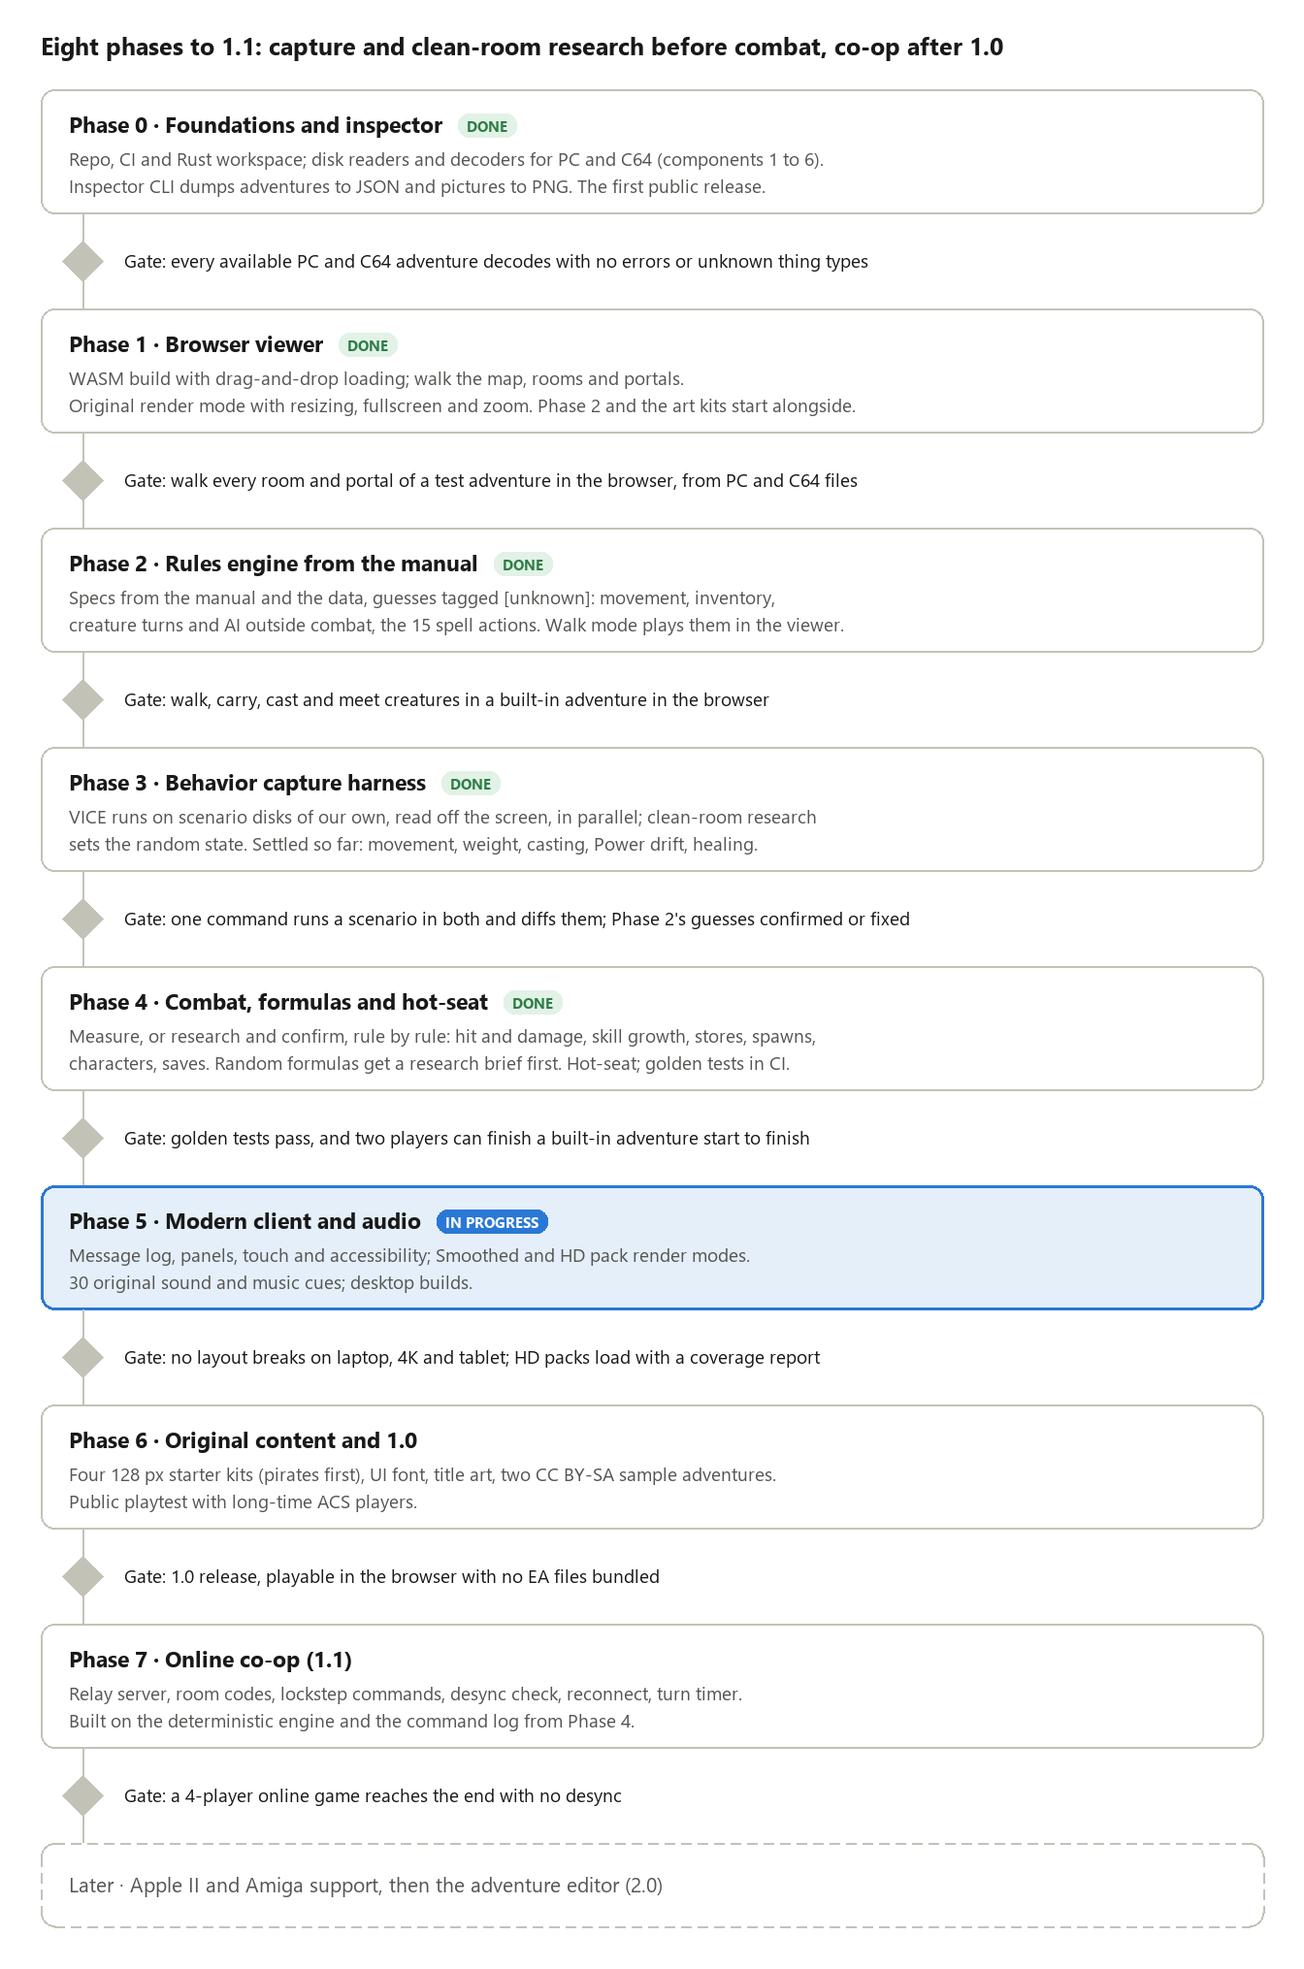
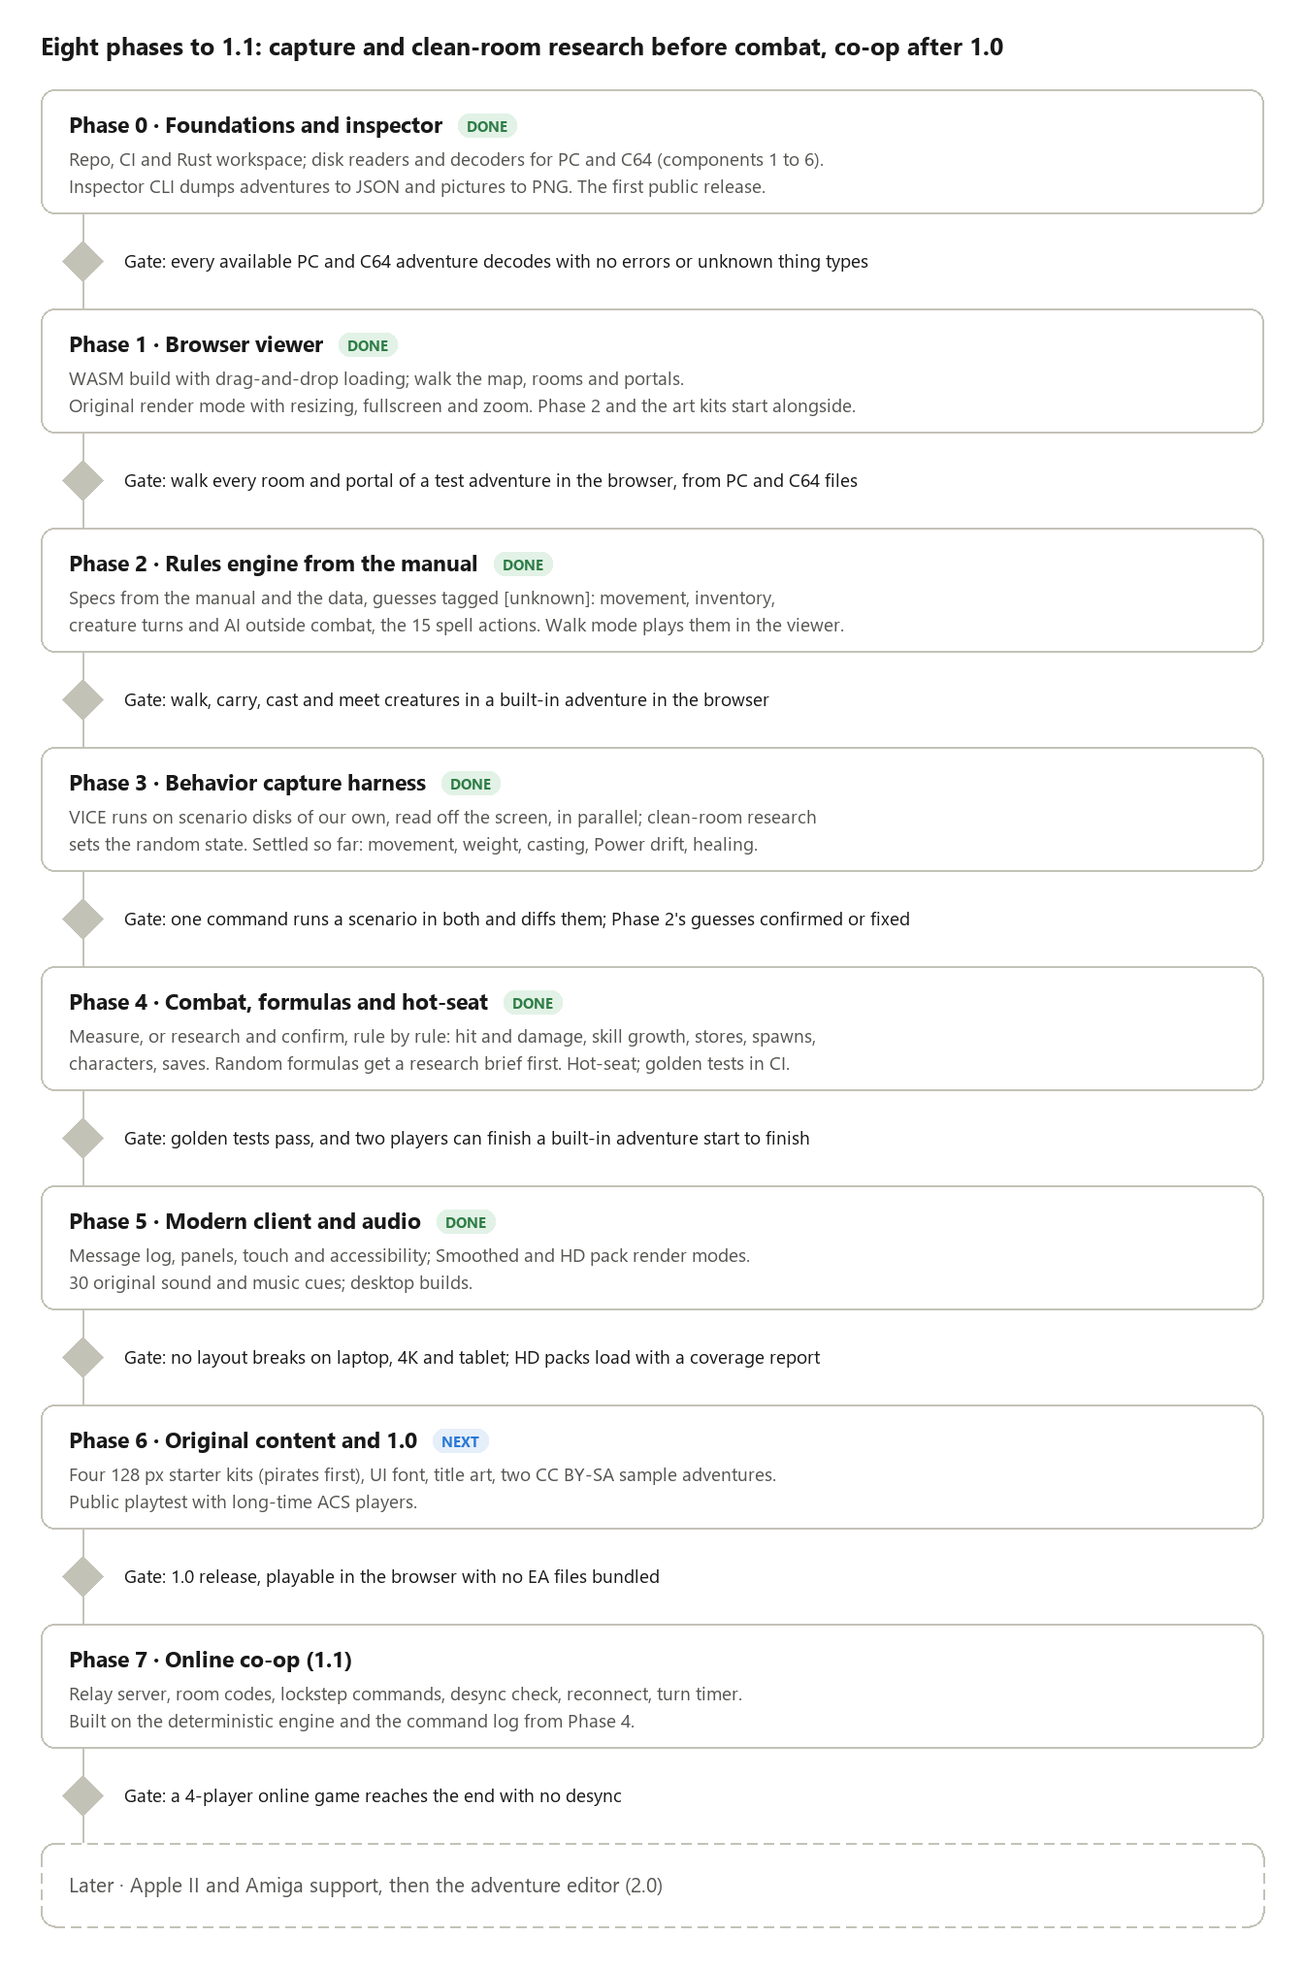
Phase 5 gate met: every view at the checked sizes, HD packs with coverage
The gate sweep (client.md 10): every view at the six checked sizes
with an HD pack, the touch pad and two players, and walk mode and the
pack view at 150% text with the colour-blind palette. Fixed what it
found: Fullscreen now takes its place in the top bar first and the
adventure's name and file elide, and list views' list column may take
about half the window with entries that don't fit ending in an
ellipsis. The pack half is a test on an adventure of our own. Roadmap,
design.md, CLAUDE.md and the README's status now say Phase 5 is done
and Phase 6 is next.

Changed region(s): [[0.0312, 0.5897, 0.9688, 0.6828], [0.3125, 0.7138, 0.375, 0.7448]]

diff --git a/crates/acs-viewer/src/app.rs b/crates/acs-viewer/src/app.rs
@@ -486,83 +486,9 @@ impl Viewer {
 
     fn top_bar(&mut self, ui: &mut egui::Ui) {
         let ctx = ui.ctx().clone();
-        let narrow = ctx.content_rect().width() < NARROW;
         egui::MenuBar::new().ui(ui, |ui| {
-            if self.doc.is_some() {
-                let nav = self
-                    .show_nav
-                    .unwrap_or_else(|| nav_default(self.doc.as_ref(), ctx.content_rect().width()));
-                if ui.selectable_label(nav, "Menu").clicked() {
-                    self.show_nav = Some(!nav);
-                }
-                let info = self.show_info.unwrap_or(!narrow);
-                if ui.selectable_label(info, "Info").clicked() {
-                    self.show_info = Some(!info);
-                }
-                ui.separator();
-            }
-            if ui.button("Open…").clicked() {
-                self.pick_file(&ctx);
-            }
-            // Accessibility options for every view (client 7).
-            ui.menu_button("Options", |ui| {
-                let a = &mut self.access;
-                let mut pct = (a.text * 100.0).round();
-                ui.add(
-                    egui::Slider::new(&mut pct, 75.0..=200.0)
-                        .step_by(5.0)
-                        .suffix("%")
-                        .text("Text size"),
-                );
-                a.text = pct / 100.0;
-                ui.checkbox(&mut a.colour_blind, "Colour-blind palette")
-                    .on_hover_text("Okabe-Ito colours for the log, the players, the creatures and the map.");
-                ui.checkbox(&mut a.reduce_motion, "Reduce motion")
-                    .on_hover_text("No pulsing outlines.");
-            });
-            if let Some(doc) = &mut self.doc {
-                if ui.selectable_label(doc.view == View::Walk, "Walk").clicked() {
-                    doc.go(View::Walk);
-                }
-                ui.add_enabled_ui(!doc.history.is_empty(), |ui| {
-                    if ui.button("Back").clicked() {
-                        doc.back();
-                    }
-                });
-                // Render mode for every view (client 5).
-                let mode = doc.tiles.mode();
-                ui.menu_button(format!("Look: {}", mode.label()), |ui| {
-                    let has_pack = doc.tiles.has_pack();
-                    for m in crate::tiles::RenderMode::ALL {
-                        if m == crate::tiles::RenderMode::HdPack && !has_pack {
-                            continue;
-                        }
-                        if ui.selectable_label(mode == m, m.label()).clicked() {
-                            doc.tiles.set_mode(&ctx, m);
-                            ui.close();
-                        }
-                    }
-                });
-                ui.separator();
-                let a = &doc.decoded.adventure;
-                ui.label(RichText::new(&a.name).strong());
-                ui.label(format!("{} · {}", a.platform, doc.file_name));
-                let errors = doc.decoded.errors().count();
-                let warnings = doc.decoded.diagnostics.len() - errors;
-                if errors + warnings > 0 {
-                    let text = match (errors, warnings) {
-                        (0, w) => RichText::new(format!("{w} warning(s)")).color(Color32::YELLOW),
-                        (e, w) => {
-                            RichText::new(format!("{e} error(s), {w} warning(s)")).color(Color32::LIGHT_RED)
-                        }
-                    };
-                    if ui.button(text).clicked() {
-                        doc.go(View::Diagnostics);
-                    }
-                } else {
-                    ui.label(RichText::new("no diagnostics").weak());
-                }
-            }
+            // Fullscreen takes its place on the right first, so the rest
+            // fits in what is left and never runs under it (client 2).
             // Browsers have their own fullscreen key (F11).
             #[cfg(not(target_arch = "wasm32"))]
             ui.with_layout(egui::Layout::right_to_left(egui::Align::Center), |ui| {
@@ -573,8 +499,95 @@ impl Viewer {
                 {
                     ctx.send_viewport_cmd(egui::ViewportCommand::Fullscreen(!full));
                 }
+                ui.with_layout(egui::Layout::left_to_right(egui::Align::Center), |ui| {
+                    self.top_bar_left(ui, &ctx);
+                });
             });
+            #[cfg(target_arch = "wasm32")]
+            self.top_bar_left(ui, &ctx);
         });
+    }
+
+    /// The top bar's toggles, menus and the open adventure.
+    fn top_bar_left(&mut self, ui: &mut egui::Ui, ctx: &egui::Context) {
+        let narrow = ctx.content_rect().width() < NARROW;
+        if self.doc.is_some() {
+            let nav = self
+                .show_nav
+                .unwrap_or_else(|| nav_default(self.doc.as_ref(), ctx.content_rect().width()));
+            if ui.selectable_label(nav, "Menu").clicked() {
+                self.show_nav = Some(!nav);
+            }
+            let info = self.show_info.unwrap_or(!narrow);
+            if ui.selectable_label(info, "Info").clicked() {
+                self.show_info = Some(!info);
+            }
+            ui.separator();
+        }
+        if ui.button("Open…").clicked() {
+            self.pick_file(ctx);
+        }
+        // Accessibility options for every view (client 7).
+        ui.menu_button("Options", |ui| {
+            let a = &mut self.access;
+            let mut pct = (a.text * 100.0).round();
+            ui.add(
+                egui::Slider::new(&mut pct, 75.0..=200.0)
+                    .step_by(5.0)
+                    .suffix("%")
+                    .text("Text size"),
+            );
+            a.text = pct / 100.0;
+            ui.checkbox(&mut a.colour_blind, "Colour-blind palette")
+                .on_hover_text("Okabe-Ito colours for the log, the players, the creatures and the map.");
+            ui.checkbox(&mut a.reduce_motion, "Reduce motion")
+                .on_hover_text("No pulsing outlines.");
+        });
+        if let Some(doc) = &mut self.doc {
+            if ui.selectable_label(doc.view == View::Walk, "Walk").clicked() {
+                doc.go(View::Walk);
+            }
+            ui.add_enabled_ui(!doc.history.is_empty(), |ui| {
+                if ui.button("Back").clicked() {
+                    doc.back();
+                }
+            });
+            // Render mode for every view (client 5).
+            let mode = doc.tiles.mode();
+            ui.menu_button(format!("Look: {}", mode.label()), |ui| {
+                let has_pack = doc.tiles.has_pack();
+                for m in crate::tiles::RenderMode::ALL {
+                    if m == crate::tiles::RenderMode::HdPack && !has_pack {
+                        continue;
+                    }
+                    if ui.selectable_label(mode == m, m.label()).clicked() {
+                        doc.tiles.set_mode(ctx, m);
+                        ui.close();
+                    }
+                }
+            });
+            ui.separator();
+            let name = doc.decoded.adventure.name.clone();
+            let place = format!("{} · {}", doc.decoded.adventure.platform, doc.file_name);
+            let errors = doc.decoded.errors().count();
+            let warnings = doc.decoded.diagnostics.len() - errors;
+            if errors + warnings > 0 {
+                let text = match (errors, warnings) {
+                    (0, w) => RichText::new(format!("{w} warning(s)")).color(Color32::YELLOW),
+                    (e, w) => {
+                        RichText::new(format!("{e} error(s), {w} warning(s)")).color(Color32::LIGHT_RED)
+                    }
+                };
+                if ui.button(text).clicked() {
+                    doc.go(View::Diagnostics);
+                }
+            } else {
+                ui.label(RichText::new("no diagnostics").weak());
+            }
+            // Last, so on a narrow bar they give way, elided (client 2).
+            ui.add(egui::Label::new(RichText::new(name).strong()).truncate());
+            ui.add(egui::Label::new(place).truncate());
+        }
     }
 
     fn nav(doc: &mut Doc, ui: &mut egui::Ui) {

diff --git a/crates/acs-viewer/src/views/lists.rs b/crates/acs-viewer/src/views/lists.rs
@@ -12,7 +12,7 @@ pub fn things(doc: &mut Doc, ui: &mut egui::Ui) {
     egui::Panel::left("thing-list")
         .resizable(true)
         .default_size(280.0)
-        .size_range(panel_width(ui))
+        .size_range(list_width(ui))
         .show(ui, |ui| {
             egui::ScrollArea::vertical().show(ui, |ui| {
                 for (i, t) in adv.things.iter().enumerate() {
@@ -22,7 +22,8 @@ pub fn things(doc: &mut Doc, ui: &mut egui::Ui) {
                     ui.horizontal(|ui| {
                         picture(ui, doc, t.kind.picture(), 24.0);
                         let text = format!("{:>3} {} · {}", t.number, t.name.trim(), t.kind.type_name());
-                        if ui.selectable_label(doc.thing == i, text).clicked() {
+                        let entry = egui::Button::selectable(doc.thing == i, text.clone()).truncate();
+                        if ui.add(entry).on_hover_text(text).clicked() {
                             pick = Some(i);
                         }
                     });
@@ -109,7 +110,7 @@ pub fn creatures(doc: &mut Doc, ui: &mut egui::Ui) {
     egui::Panel::left("creature-list")
         .resizable(true)
         .default_size(280.0)
-        .size_range(panel_width(ui))
+        .size_range(list_width(ui))
         .show(ui, |ui| {
             egui::ScrollArea::vertical().show(ui, |ui| {
                 for (i, c) in adv.creatures.iter().enumerate().filter(|(_, c)| c.in_use) {

diff --git a/scripts/roadmap.py b/scripts/roadmap.py
@@ -38,11 +38,11 @@ PHASES = [
         "Measure, or research and confirm, rule by rule: hit and damage, skill growth, stores, spawns,",
         "characters, saves. Random formulas get a research brief first. Hot-seat; golden tests in CI."],
      "Gate: golden tests pass, and two players can finish a built-in adventure start to finish"),
-    ("Phase 5 \u00b7 Modern client and audio", "now", [
+    ("Phase 5 \u00b7 Modern client and audio", "done", [
         "Message log, panels, touch and accessibility; Smoothed and HD pack render modes.",
         "30 original sound and music cues; desktop builds."],
      "Gate: no layout breaks on laptop, 4K and tablet; HD packs load with a coverage report"),
-    ("Phase 6 \u00b7 Original content and 1.0", None, [
+    ("Phase 6 \u00b7 Original content and 1.0", "next", [
         "Four 128 px starter kits (pirates first), UI font, title art, two CC BY-SA sample adventures.",
         "Public playtest with long-time ACS players."],
      "Gate: 1.0 release, playable in the browser with no EA files bundled"),

diff --git a/crates/acs-viewer/src/views/mod.rs b/crates/acs-viewer/src/views/mod.rs
@@ -183,6 +183,12 @@ pub fn panel_width(ui: &egui::Ui) -> std::ops::RangeInclusive<f32> {
     200.0..=(ui.ctx().content_rect().width() * 0.32).clamp(200.0, 480.0)
 }
 
+/// A list view's list column: the view's main content, so up to about
+/// half the window; entries that still don't fit end in "…" (client 2).
+pub fn list_width(ui: &egui::Ui) -> std::ops::RangeInclusive<f32> {
+    200.0..=(ui.ctx().content_rect().width() * 0.45).clamp(200.0, 480.0)
+}
+
 /// A picture about `points` wide, at a whole-number multiple of its pixels.
 pub fn picture(ui: &mut egui::Ui, doc: &Doc, picture: Option<u16>, points: f32) -> Response {
     let ppp = ui.ctx().pixels_per_point();

diff --git a/README.md b/README.md
@@ -4,22 +4,20 @@ ACSVM (working name) is an open-source engine that plays adventures made with
 *Adventure Construction Set* (Electronic Arts, 1984), in the spirit of ScummVM:
 the engine is free software, and you bring the adventure files you own.
 
-**Status: Phase 2 (rules engine).** There is an inspector that decodes C64
-and PC adventures into JSON and exports their pictures, and a viewer that
-shows an adventure's world map, regions, rooms, things, creatures and messages
-on the desktop or in a browser
-([try it](https://dragynrain.github.io/ACSVM/) with your own file). The rules
-engine handles movement, inventory and creatures outside combat so far, and
-the viewer's walk mode lets you move a player through an adventure, pick
-things up, ready weapons and armor, drop things, and watch the creatures in
-the room take their turns: they walk up to you, follow you through doors,
-grab gold and treasure, and appear at random. Spells work: spaces, doors,
-obstacles and magic items set them off, you can cast spells and use magic
-items on yourself or anyone in the room, smart creatures cast at you (or
-heal you, if they are friends), and Life Force can run out. There is no
-combat yet. A capture harness now plays the original C64 program in the VICE
-emulator and measures it, to check those rules and to find the formulas the
-manual leaves out ([docs/capture.md](docs/capture.md)). See
+**Status: Phase 5 done (modern client and audio); next, Phase 6 (original
+content and 1.0).** The rules engine plays whole adventures: movement,
+inventory, creatures and their AI, the 15 spell actions, combat, stores,
+new characters, world map encounters and saves, each rule specified in
+`docs/rules/` and checked against the original C64 program, measured in
+the VICE emulator by a capture harness ([docs/capture.md](docs/capture.md)).
+Two players have finished *Rivers of Light*, the adventure that comes with
+ACS, in hot-seat. The viewer plays adventures on the desktop and in a
+browser ([try it](https://dragynrain.github.io/ACSVM/) with your own file):
+keyboard, mouse and an on-screen touch pad, a message log, the original's
+music cues (placeholders for now), Original and Smoothed looks, HD packs of
+replacement art with a coverage report, and accessibility options. An
+inspector decodes C64 and PC adventures into JSON and exports their
+pictures. See
 [docs/design.md](docs/design.md) for the full plan and
 [docs/rules/](docs/rules/movement.md) for the rules as specified.
 

diff --git a/docs/client.md b/docs/client.md
@@ -266,6 +266,8 @@ builds them as workflow artifacts only.
 
 ## 9. Order of work
 
+Phase 5's gate is met (10); next is Phase 6, original content and 1.0.
+
 1. Layout: the message log in its own panel, the info column scrolling
    (2, 3). Done November 2026.
 2. A screenshot sweep at the checked sizes, fixing what breaks. Done
@@ -302,3 +304,19 @@ builds them as workflow artifacts only.
 No layout breaks at the checked sizes (2) in walk mode, the map and
 every list view; an HD pack loads and its coverage report is right for
 a test adventure of our own.
+
+**Met, November 2026.** Every view (walk mode on the map and in a room
+with creatures, the world map, a region, a room, things, creatures,
+messages, diagnostics and the HD pack view) at the six checked sizes,
+with an HD pack loaded, the touch pad on and two players; and walk mode
+and the pack view again at 150% text with the colour-blind palette, at
+the two tablet sizes. Two breaks turned up and were fixed: the top bar
+ran under Fullscreen at large text (Fullscreen now takes its place
+first, and the adventure's name and file elide), and the Things list cut
+entries off on a 768-point window (list views' list column may now take
+about half the window, and entries that still don't fit end in "…").
+Left as they are: the menu column scrolls on hover only; at large text
+a bar's caption can run past a narrow info column. The pack half is the
+test `a_pack_loads_and_reports_its_coverage`, and a demo pack built
+with `scripts/hdpack.py` covered exactly what it was built to on
+*Rivers of Light* (not committed: its hashes come from EA's pictures).

diff --git a/docs/design.md b/docs/design.md
@@ -553,6 +553,8 @@ Starting combat before the harness would mean writing formulas twice, once as a 
 
 **Phase 4 gate met (November 2026).** The golden tests pass (`crates/acs-engine/tests/golden`, one test per capture), and two players finish *Rivers of Light*, the adventure that ships with ACS, in hot-seat on the engine: an automated replay of a walkthrough played with `acs play` (`docs/play.md`), checked by the corpus test `two_players_finish_rivers_of_light`. The adventure can't be finished alone: its Gizeh caverns need two players at once. The walkthrough and its save stay outside the repo, since they're derived from EA's adventure. Playing it turned up rules no capture had reached (things that vanish after use, custom obstacles' property bits, needed things used up under Activate All), captured and implemented on the way (capture.md 10.45).
 
+**Phase 5 gate met (November 2026).** Every view lays out at the checked laptop, 4K and tablet sizes, with the touch pad, an HD pack and large text; HD packs load with a coverage report, checked on a test adventure of our own. The client's spec, the order of work and what the sweeps found are in [client.md](client.md).
+
 ## Risks and open questions
 
 | Risk | Effect | Mitigation |

diff --git a/CLAUDE.md b/CLAUDE.md
@@ -7,8 +7,10 @@ capture harness, `docs/capture.md`) and 4 (formulas through research and
 capture, hot-seat) are done: the Phase 4 gate is two players finishing
 *Rivers of Light* by an automated replay (`acs play`, `docs/play.md`; the
 corpus test `two_players_finish_rivers_of_light`), November 2026. Phase 5
-(modern client and audio) is under way: plan and client spec in
-`docs/client.md`. Rules [unknown]s left in `docs/rules/`
+(modern client and audio) is done too: its gate (no layout breaks at the
+checked sizes, HD packs with a coverage report) was met November 2026;
+the client's spec is `docs/client.md`. Next is Phase 6 (original content
+and 1.0). Rules [unknown]s left in `docs/rules/`
 each carry the engine's choice; capture them as they matter.
 Rules specs: `docs/rules/` (CC BY 4.0), each rule tagged [manual], [data],
 [capture], [research] or [unknown] with the engine's choice; write the spec
